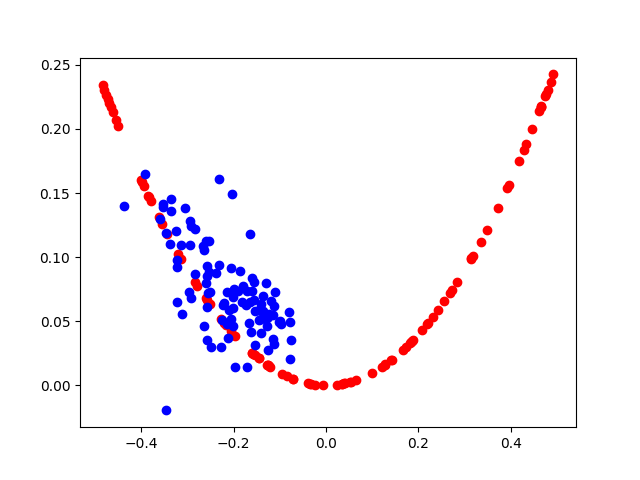
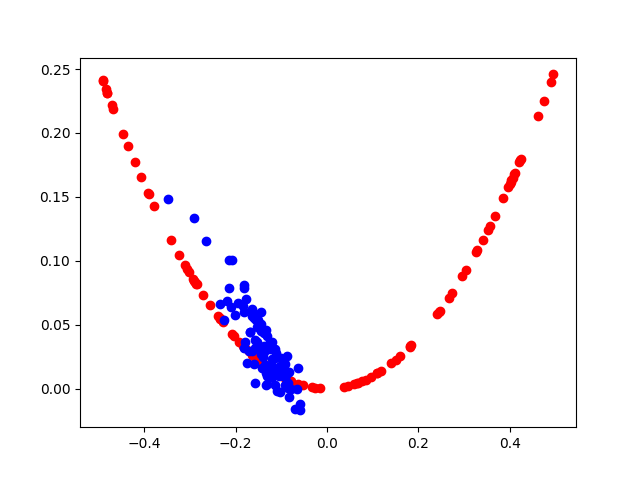
added one more example

diff --git a/GAN/gan_1d_onemore_ex.py b/GAN/gan_1d_onemore_ex.py
@@ -1,0 +1,139 @@
+from numpy import zeros
+from numpy import ones
+from numpy.random import rand 
+from numpy.random import randn
+from numpy import hstack
+from matplotlib import pyplot
+
+def generate_samples(n=100):
+    X1 = rand(n)-0.5
+    X2 = X1**3
+    X1 = X1.reshape(n,1)
+    X2 = X2.reshape(n,1)
+    return hstack((X1,X2))
+
+data = generate_samples()
+pyplot.scatter(data[:,0],data[:,1])
+pyplot.show()
+
+#define standalone discriminator model
+from tensorflow.keras.models import Sequential
+from tensorflow.keras.layers import Dense
+from tensorflow.keras.utils import plot_model
+
+def define_discriminator(n_inputs=2):
+    """it is the discriminator model used in gan"""
+    model = Sequential()
+    model.add(Dense(25,activation='relu',kernel_initializer='he_uniform',input_dim=n_inputs))
+    model.add(Dense(1,activation='sigmoid'))
+    model.compile(loss='binary_crossentropy',optimizer='adam',metrics=['accuracy'])
+    return model
+
+def generate_real_samples(n):
+    """function to be used to generated real samples"""
+    X1 = rand(n)-0.5
+    X2 = X1**3
+    X1 = X1.reshape(n,1)
+    X2 = X2.reshape(n,1)
+    X = hstack((X1,X2))
+    y = ones((n,1))
+    return X,y
+
+def generate_fake_samples(n):
+    """used to generate fake samples"""
+    X1 = -1+rand(n)*2
+    X2 = -1+rand(n)*2
+    X1 = X1.reshape(n,1)
+    X2 = X2.reshape(n,1)
+    X = hstack((X1,X2))
+    y = zeros((n,1))
+    return X,y
+
+def train_discriminator(model,n_epochs=1000,n_batches=128):
+    """It is used to train the discriminator model"""
+    half_batch = int(n_batches/2)
+    for i in range(n_epochs):
+        X_real, y_real = generate_real_samples(half_batch)
+        model.train_on_batch(X_real,y_real)
+        X_fake, y_fake = generate_fake_samples(half_batch)
+        model.train_on_batch(X_fake,y_fake)
+        #evaluate the model
+        _,acc_real = model.evaluate(X_real,y_real,verbose=0)
+        _,acc_fake = model.evaluate(X_fake,y_fake,verbose=0)
+        print(i,acc_real,acc_fake)
+
+# model = define_discriminator()
+# train_discriminator(model)
+
+# define the standalone generator model
+def define_generator(latent_dim, n_outputs=2):
+    model = Sequential()
+    model.add(Dense(15, activation='relu', kernel_initializer='he_uniform', input_dim=latent_dim))
+    model.add(Dense(n_outputs, activation='linear'))
+    return model
+
+def generate_latent_points(latent_dim, n):
+    x_input = randn(latent_dim*n)
+    x_input = x_input.reshape(n,latent_dim)
+    return x_input
+
+def generate_fake_samples(generator, latent_dim, n):
+    x_input = generate_latent_points(latent_dim,n)
+    X = generator.predict(x_input)
+    pyplot.scatter(X[:,0],X[:,1])
+    pyplot.show()
+
+
+latent_dim = 5
+model = define_generator(latent_dim)
+generate_fake_samples(model,latent_dim,100)
+
+#define the combined gan model
+def define_gan(generator, discriminator):
+    discriminator.trainable=False 
+    model = Sequential()
+    model.add(generator)
+    model.add(discriminator)
+    model.compile(loss='binary_crossentropy', optimizer='adam')
+    return model
+
+discriminator = define_discriminator()
+generator = define_generator(latent_dim)
+gan_model = define_gan(generator,discriminator)
+gan_model.summary()
+plot_model(gan_model,to_file='gan_1d_onemore_ex.png',show_shapes=True,show_layer_names=True)
+
+def generate_fake_samples(generator, latent_dim, n):
+    x_input = generate_latent_points(latent_dim,n)
+    X = generator.predict(x_input)
+    y = zeros((n,1))
+    return X,y
+
+def summarize_performance(epoch, generator, discriminator, latent_dim, n=100):
+    x_real, y_real = generate_real_samples(n)
+    _, acc_real = discriminator.evaluate(x_real, y_real, verbose=0)
+    X_fake, y_fake = generate_fake_samples(generator, latent_dim, n)
+    _, acc_fake = discriminator.evaluate(X_fake, y_fake, verbose=0)
+    print(epoch, acc_real, acc_fake)
+    pyplot.scatter(x_real[:,0],x_real[:,1],color='red')
+    pyplot.scatter(X_fake[:,0],X_fake[:,1],color='blue')
+    filename = 'generated_plot_onemore_ex_e%03d.png' % (epoch+1)
+    pyplot.savefig(filename)
+    pyplot.close()    
+
+def train(g_model, d_model, gan_model, latent_dim, n_epochs=10000, n_batches=128,n_eval=2000):
+    half_batch = int(n_batches/2) 
+    for i in range(n_epochs):
+        x_real, y_real = generate_real_samples(half_batch)
+        x_fake, y_fake = generate_fake_samples(g_model, latent_dim, half_batch)
+        d_model.train_on_batch(x_real,y_real)
+        d_model.train_on_batch(x_fake,y_fake)
+        x_gan = generate_latent_points(latent_dim, n_batches)
+        y_gan = ones((n_batches,1))
+        gan_model.train_on_batch(x_gan,y_gan)
+
+        if((i+1)%n_eval==0):
+            summarize_performance(i, g_model, d_model, latent_dim)
+
+train(generator,discriminator,gan_model,latent_dim)
+
